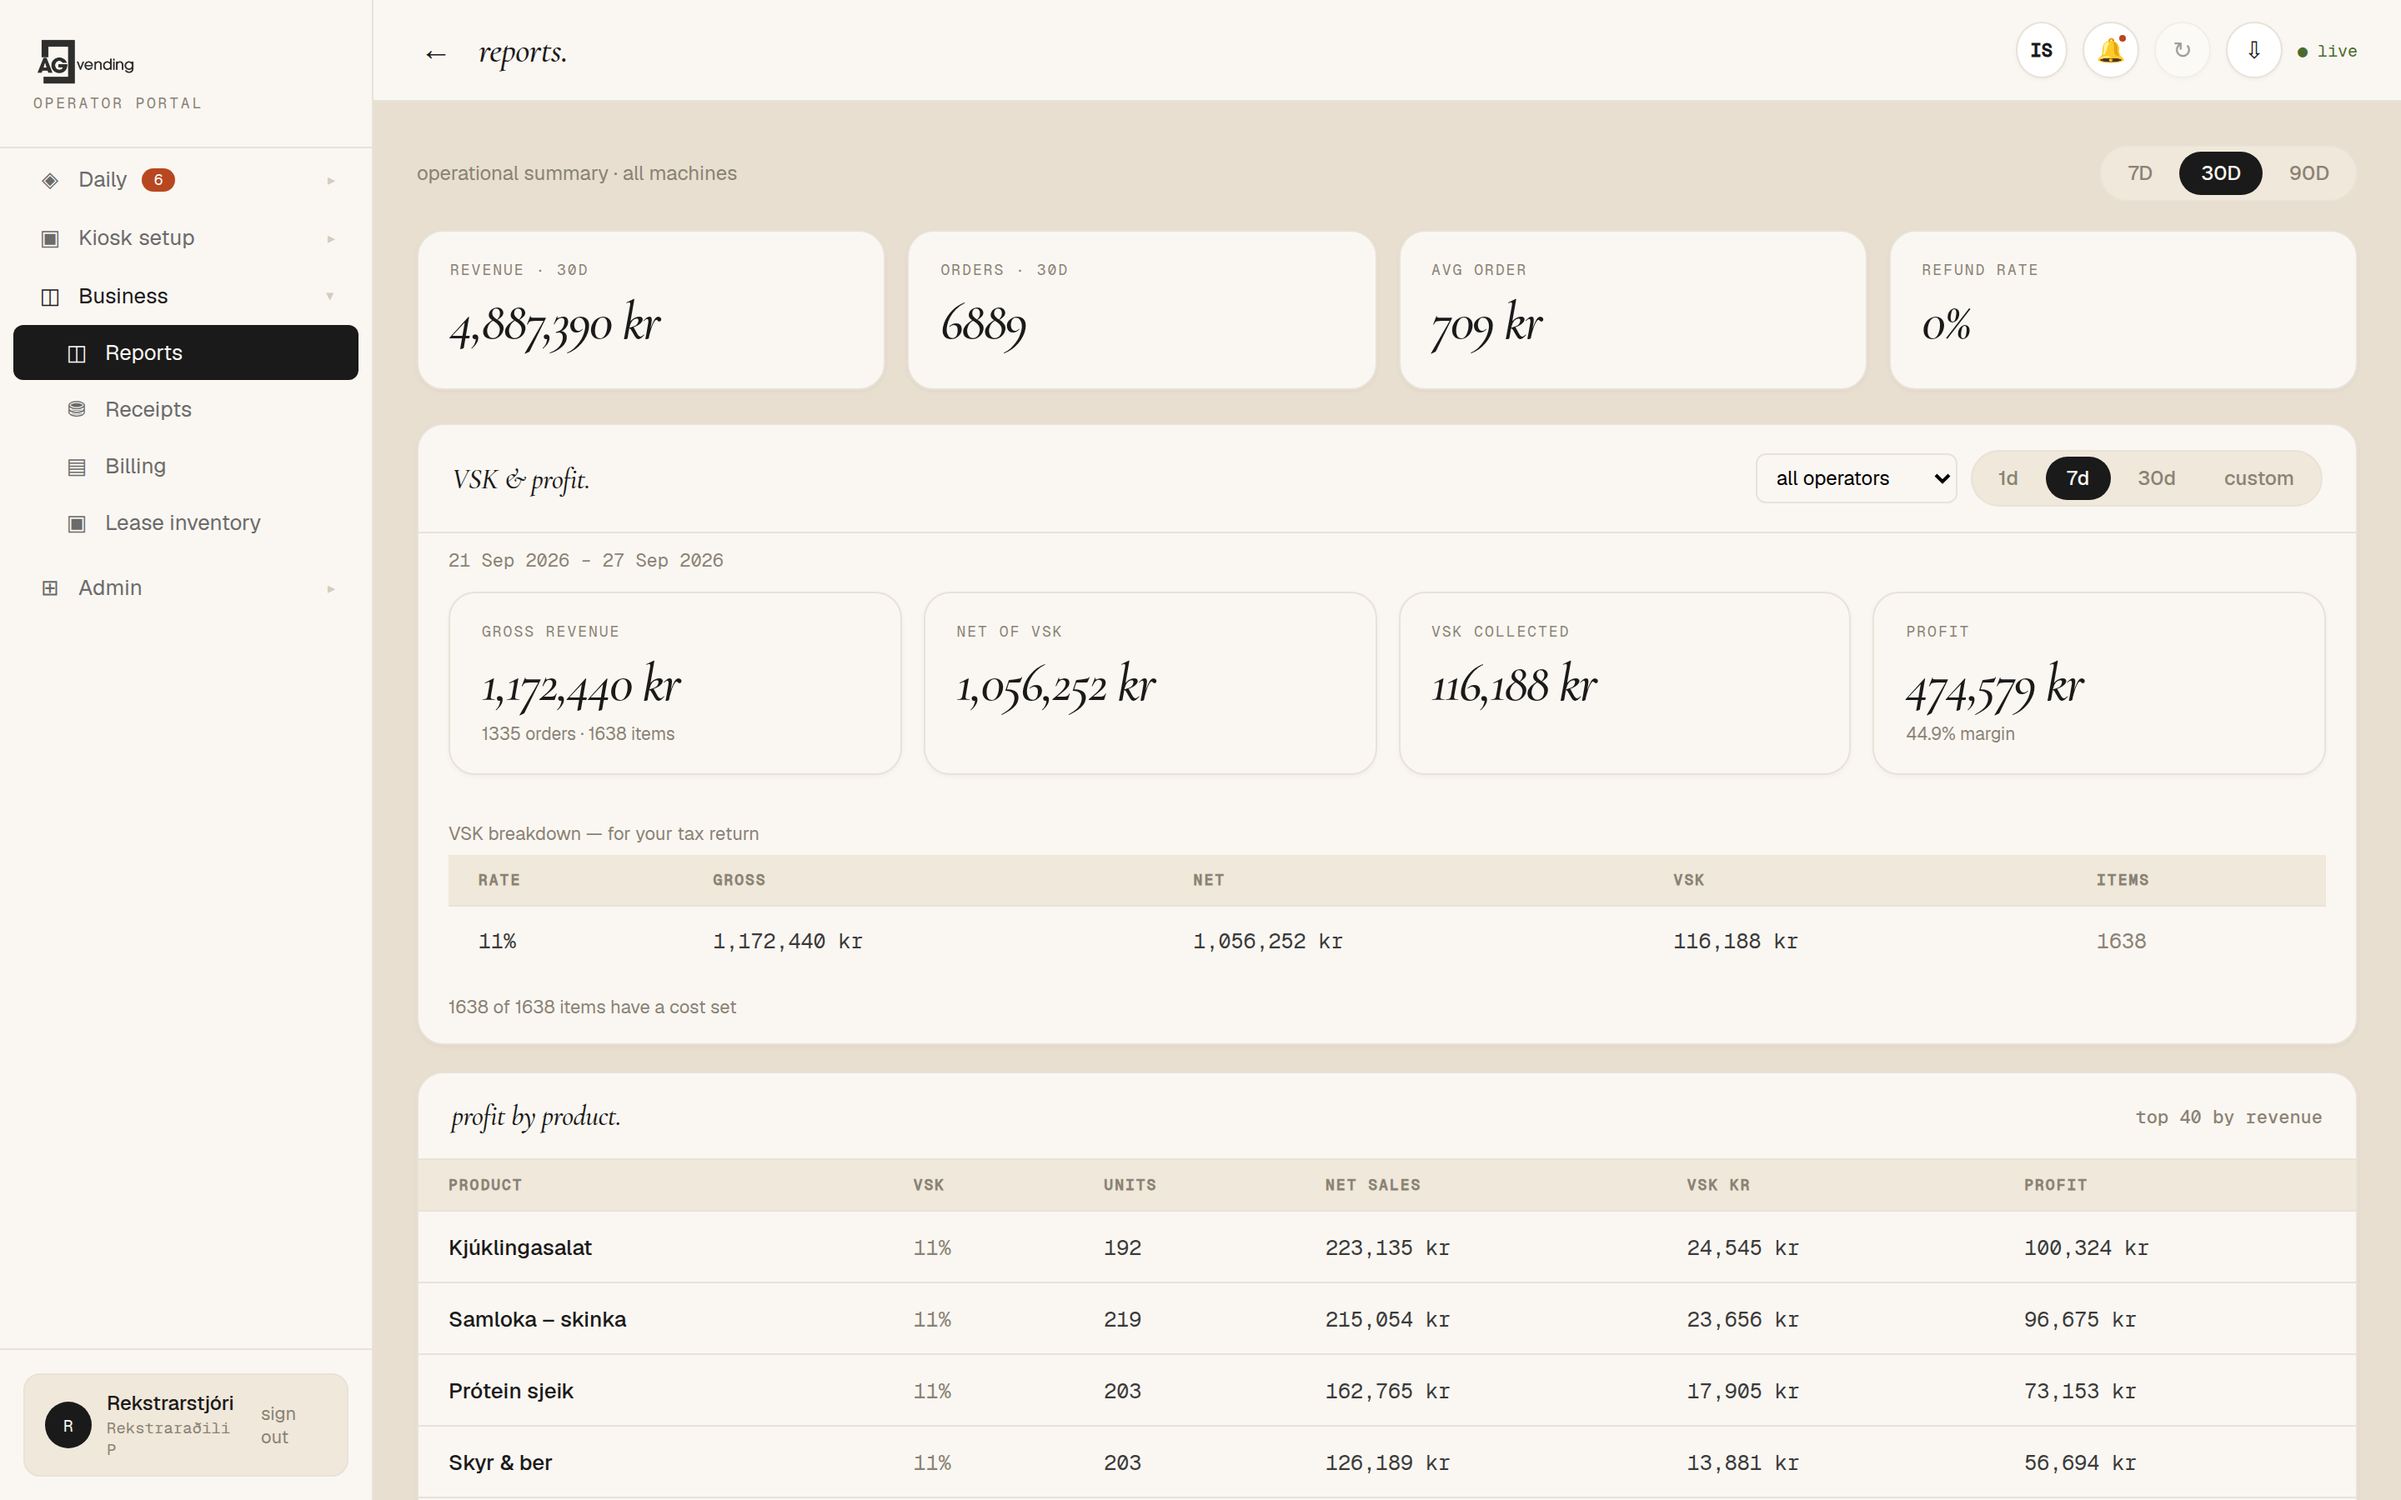
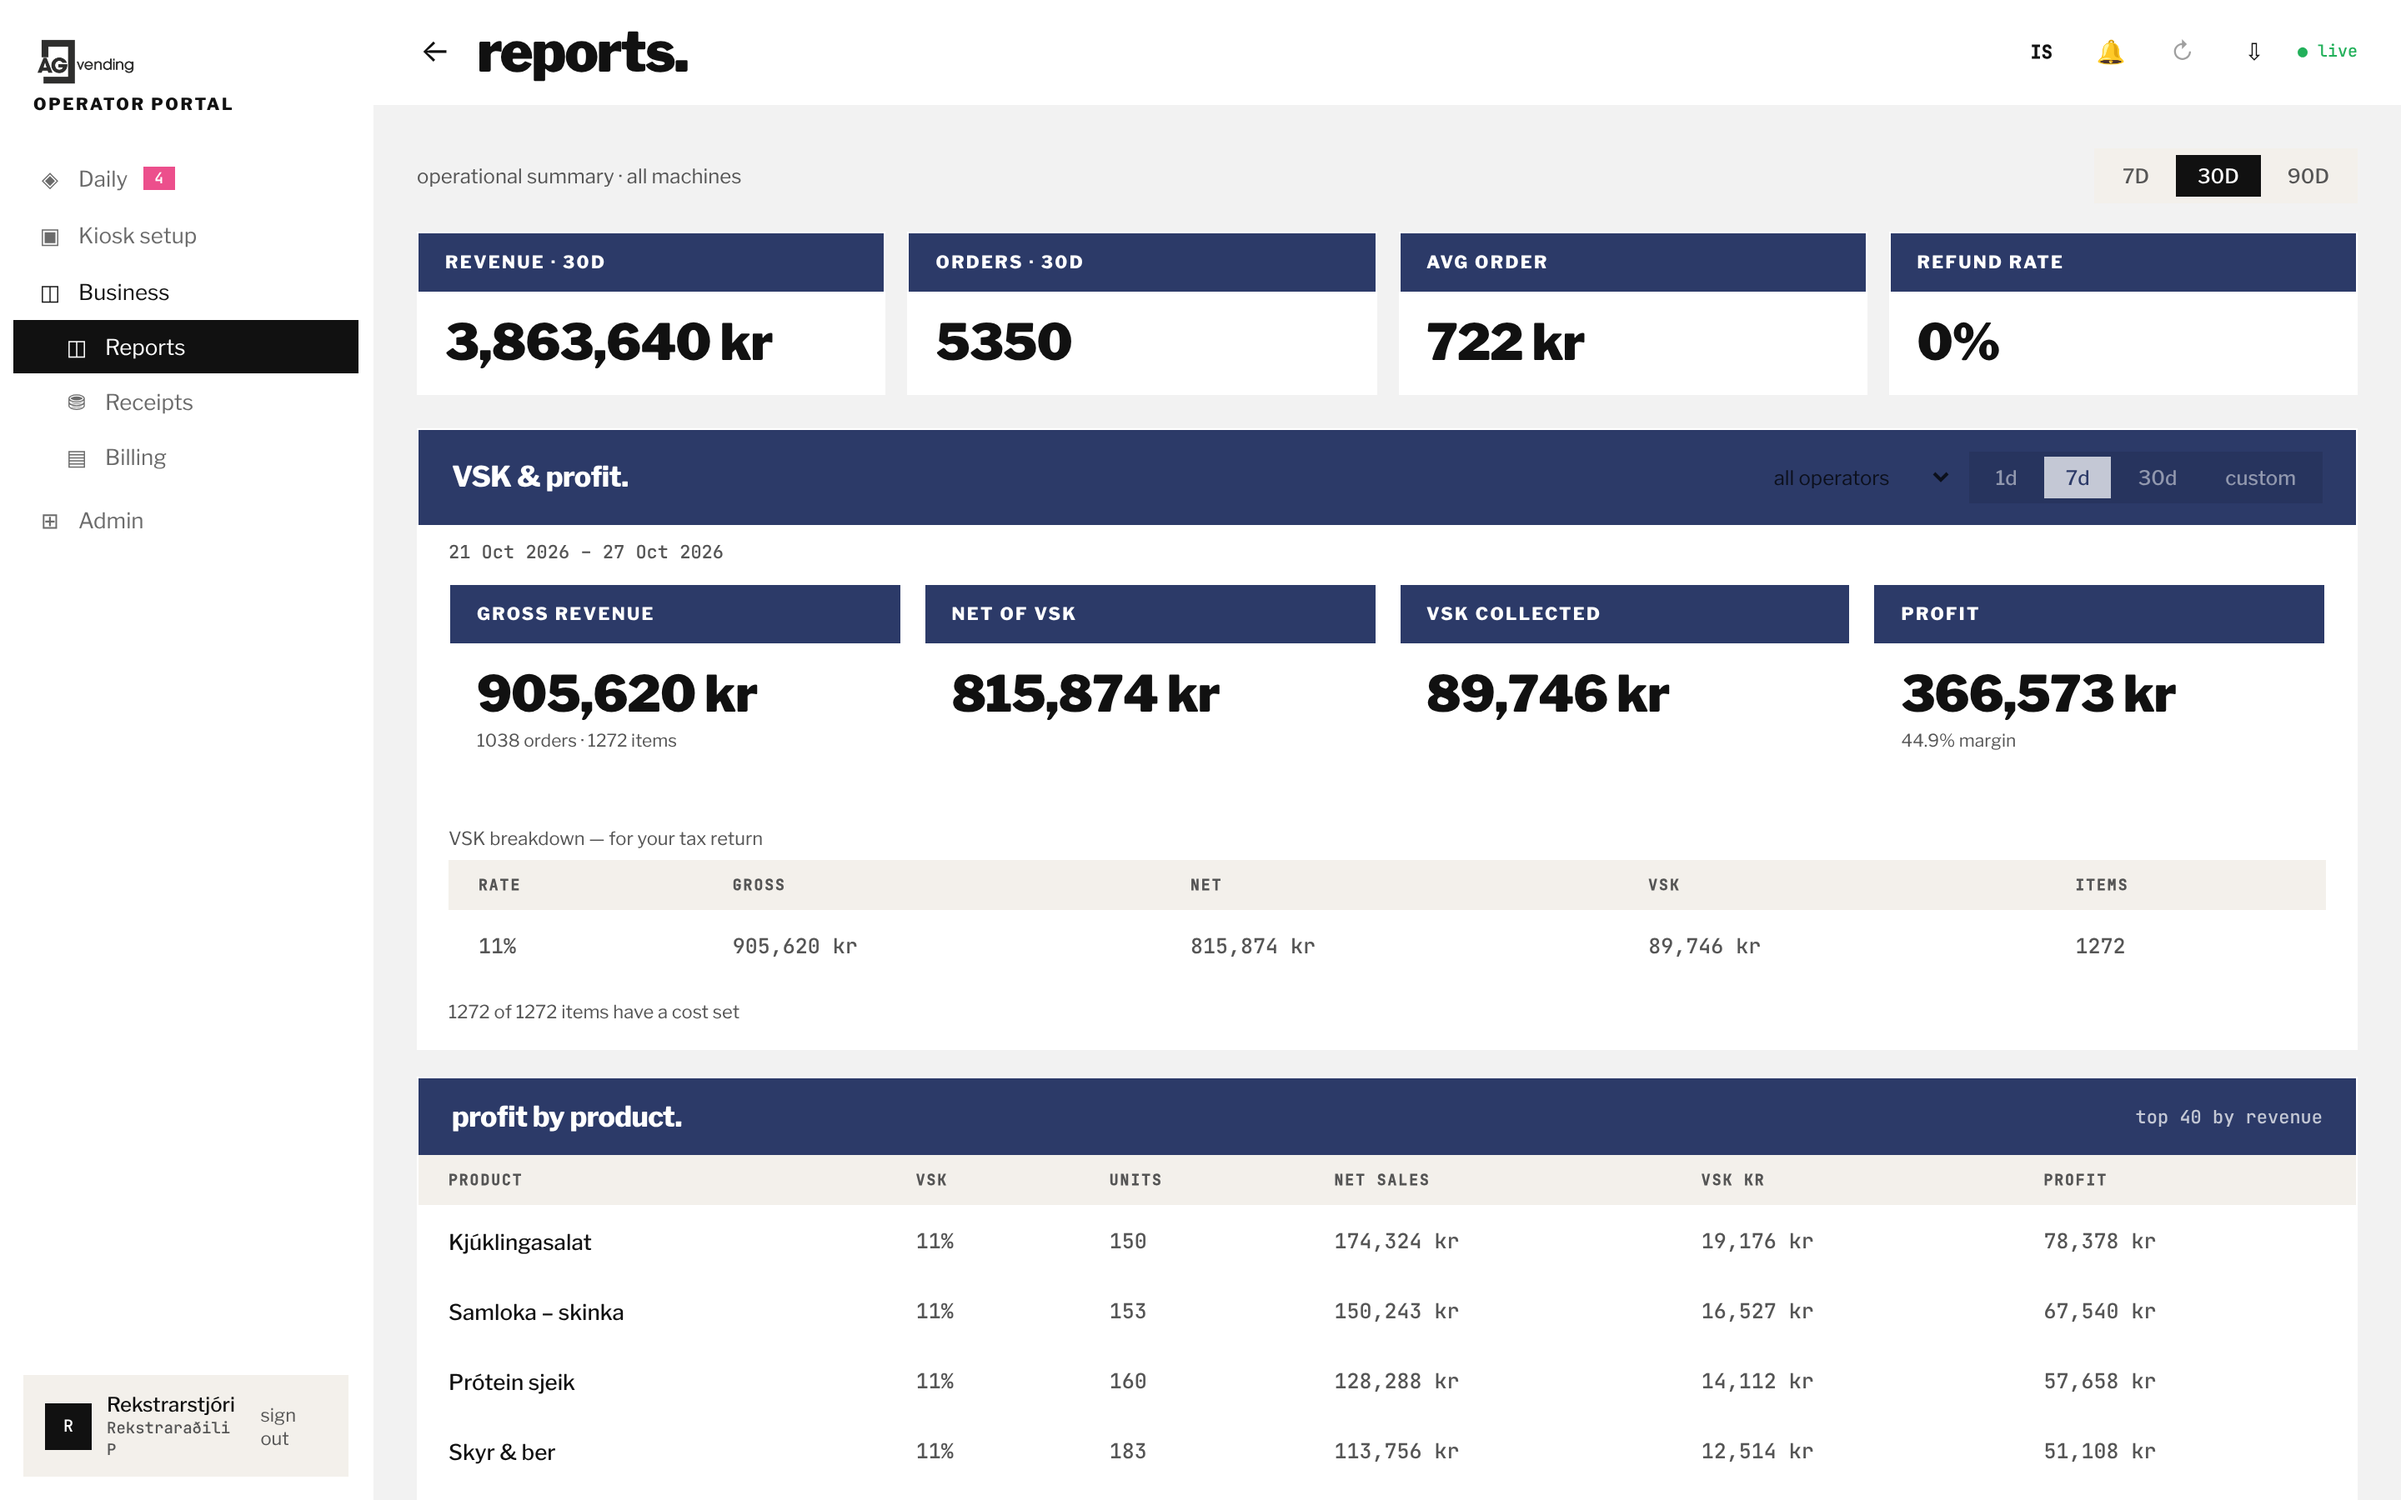
v6.76.1: recapture the public screenshots, and fix what they exposed (#101)
features.html was advertising the old cream dashboard. All eight embedded
screenshots are recaptured from the real backend at the dimensions the
page declares — desktop 2880x1800, phone 1170x2532 — with the webfonts
asserted loaded before each shot, so a fallback-font render fails the run
instead of shipping quietly.

Three things the recapture turned up, all fixed here rather than papered
over in the picture:

  - The two dashboard charts were still drawn in the bronze and black
    left over from the old scheme, so the revenue week read grey with one
    black bar directly under a tile whose bars are sky and yellow. The
    three colours are tokens now (--chart-bar, --chart-bar-today,
    --chart-fill, holding their old values in index.html) and the theme
    points them at the same pair the tile above uses.

  - .stat-lbl got the band background in 6.76.0, but #rev-summary uses
    that class for three plain captions under the chart, which came out
    as yellow highlighter blocks. The background is now scoped to
    .stat > .stat-lbl; the type change still applies everywhere.

  - 6.75.0 took .tb-title from 21px to 34px/900. Right on a desktop, too
    wide for a 390px header: with a back arrow in the row, "orders."
    pushed the live badge off the right edge. Operators work mostly on a
    phone, so under 760px the title scales back and truncates instead of
    shoving the controls out.

The demo database's orders stopped two days before the capture, so every
[…]

diff --git a/snarl-sopi-backend/public/index.html b/snarl-sopi-backend/public/index.html
@@ -19,6 +19,9 @@
   --alert:#B8471F; --alert-bg:#FAEEE9;
   --success:#4A6B2E; --success-bg:#EBF2E6;
   --warn-ink:#7A4E1A; --warn-bg:#F9F0E2;
+  /* Dashboard charts: the revenue week, its today bar, and the machine-performance fill. Same
+     reason as below — hardcoded in the renderers, so they could not follow the rest. */
+  --chart-bar:#6E675C; --chart-bar-today:#111111; --chart-fill:#6E675C;
   /* Revenue tile. These were hardcoded hexes inside the renderer, which is why the tile could not
      be themed with the rest of the dashboard. Values unchanged; they are tokens now. */
   --hero-label:#A79E8E; --hero-rule:#332E28; --hero-dim:#6E675C;
@@ -3250,7 +3253,7 @@ function renderRevenueBars(data) {
     const isToday = i === series.length - 1;
     const tooltip = new Date(b.dayUTC).toISOString().slice(0,10) + ': ' + formatKr(b.revenueKr) + ' · ' + b.orders + ' orders';
     return '<div class="bc" title="' + tooltip + '">' +
-           '<div class="bt"><div class="bar" style="height:' + height + '%;background:' + (isToday ? 'var(--bronze)' : 'var(--bronze-light)') + ';opacity:' + (isToday ? 1 : .7) + '"></div></div>' +
+           '<div class="bt"><div class="bar" style="height:' + height + '%;background:' + (isToday ? 'var(--chart-bar-today)' : 'var(--chart-bar)') + ';opacity:' + (isToday ? 1 : .7) + '"></div></div>' +
            '<div class="bl" style="font-size:9.5px">' + lbl + '</div></div>';
   }).join('');
 
@@ -3305,7 +3308,7 @@ async function refreshMachineComparison() {
         '</div>' +
         '<div style="display:flex;align-items:center;gap:8px">' +
           '<div style="flex:1;height:6px;background:var(--cream-deep);border-radius:3px;overflow:hidden">' +
-            '<div style="height:100%;width:' + pct + '%;background:var(--bronze)"></div>' +
+            '<div style="height:100%;width:' + pct + '%;background:var(--chart-fill)"></div>' +
           '</div>' +
           '<span style="font-family:var(--mono);font-size:11px;min-width:80px;text-align:right">' + formatKr(m.revenueKr) + '</span>' +
         '</div>' +

diff --git a/snarl-sopi-backend/public/theme-accent.css b/snarl-sopi-backend/public/theme-accent.css
@@ -276,3 +276,37 @@ h1, h2, h3, h4 { font-style: normal; }
 .fh-kpi.on small { background: var(--band); color: var(--band-ink); }
 .fh-kpi:hover small { background: var(--ink-soft); color: var(--paper); }
 .fh-kpi.on:hover small { background: var(--band); }
+
+/* The two dashboard charts were still drawn in the bronze and black left
+   over from the old scheme, which is why the revenue week read grey with
+   one black bar. They now use the same pair as the revenue tile above
+   them: the week in sky, today in the yellow accent. */
+:root {
+  --chart-bar:       var(--c-sky);
+  --chart-bar-today: var(--c-yellow);
+  --chart-fill:      var(--c-sky);
+}
+
+/* .stat-lbl is the band only when it IS one. #rev-summary uses the class
+   for three plain captions under the chart, and they were coming out as
+   yellow highlighter blocks. The type change still applies everywhere. */
+.stat-lbl { background: none; color: inherit; }
+.stat > .stat-lbl { background: var(--band); color: var(--band-ink); }
+
+/* ---------------------------------------------------------------------
+   8. The page title on a phone
+   ---------------------------------------------------------------------
+   Step 2 took .tb-title from 21px to 34px/900, which is right on a
+   desktop and too wide for a 390px header: with a back arrow in the row,
+   "orders." pushed the live badge off the right edge. Operators work
+   mostly on a phone, so the title scales back there and truncates rather
+   than shoving the controls out.
+   --------------------------------------------------------------------- */
+@media (max-width: 759px) {
+  .topbar { gap: 9px; padding-left: 15px; padding-right: 15px; }
+  .tb-title {
+    font-size: 25px !important; letter-spacing: -0.8px !important;
+    min-width: 0; overflow: hidden; text-overflow: ellipsis; white-space: nowrap;
+  }
+  .tb-right { gap: 7px; flex-shrink: 0; }
+}
